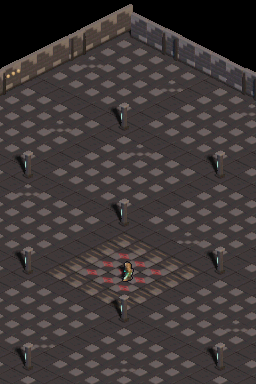
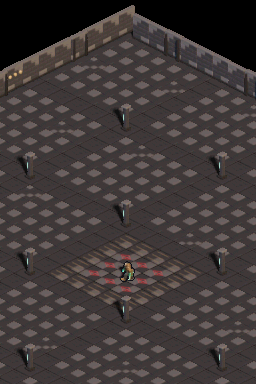
feat(physics): synchronize walk cycle speed with 3D stride to eliminate conveyor-belt foot sliding

diff --git a/source/main.c b/source/main.c
@@ -24,9 +24,10 @@
 #define VOID_COLOR RGB15(0, 0, 0)
 
 // Screen-space movement speed (px/frame, 8.8 fixed) and collider radius
-#define PLAYER_SPEED (TO_FIXED(1) + 128) // 1.5 px/frame
+// Synchronized to 1.502m 3D stride (16.99 px at 11.31 px/m): 181/256 px/frame over 24 ticks (ANIM_PERIOD=3)
+#define PLAYER_SPEED 181                 // ~0.71 px/frame (zero foot sliding)
 #define PLAYER_COLLIDER 96               // 0.375 tile radius
-#define ANIM_PERIOD 5
+#define ANIM_PERIOD 3                    // 24 ticks (0.40s) per 8-frame cycle
 
 // Camera vertical anchor: where the player's feet sit on the bottom screen.
 // Above centre, so the top screen is filled by the dungeon rather than the void.
